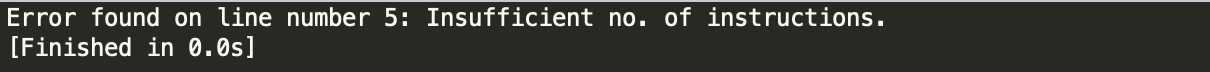
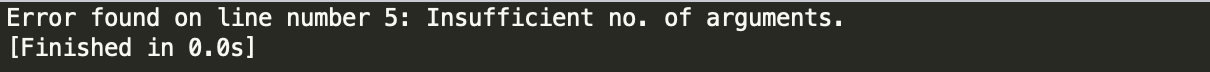
Added correct Error6.png and corrected Assembler.py

Changed region(s): [[0.581, 0.1389, 0.7339, 0.4167], [0.6727, 0.1111, 0.7033, 0.1389], [0.581, 0.1111, 0.6116, 0.1389]]

diff --git a/Assembler.py b/Assembler.py
@@ -97,7 +97,7 @@ def pass1(error,opcode,symbols):
 				if(len(l)==1 and l[0]!='CLA' and l[0]!='STP' and flag):
 					error=True
 					flag=False
-					print("Error found on line number "+str(lineno)+": Insufficient no. of instructions.")
+					print("Error found on line number "+str(lineno)+": Insufficient no. of arguments.")
 				if(len(l)==2 and checkifinstruction(opcode,l[0])==False and checkifinstruction(opcode,l[1])==True and l[0]!='CLA' and l[0]!='STP' and flag):
 					error=True
 					flag=False
